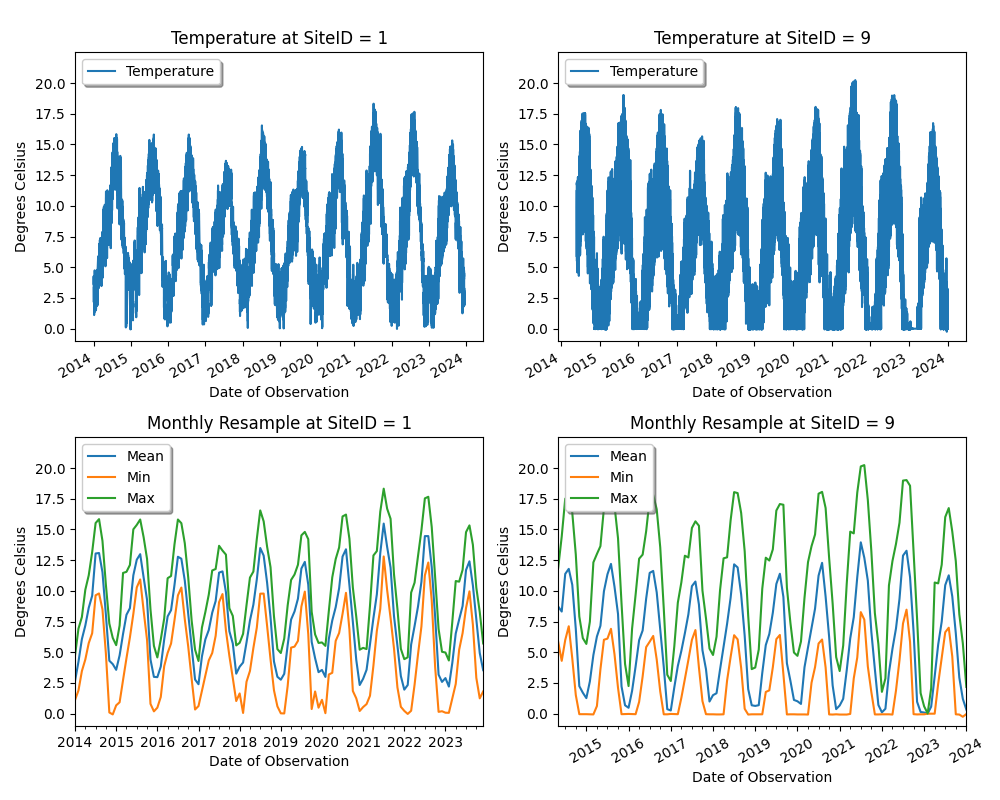
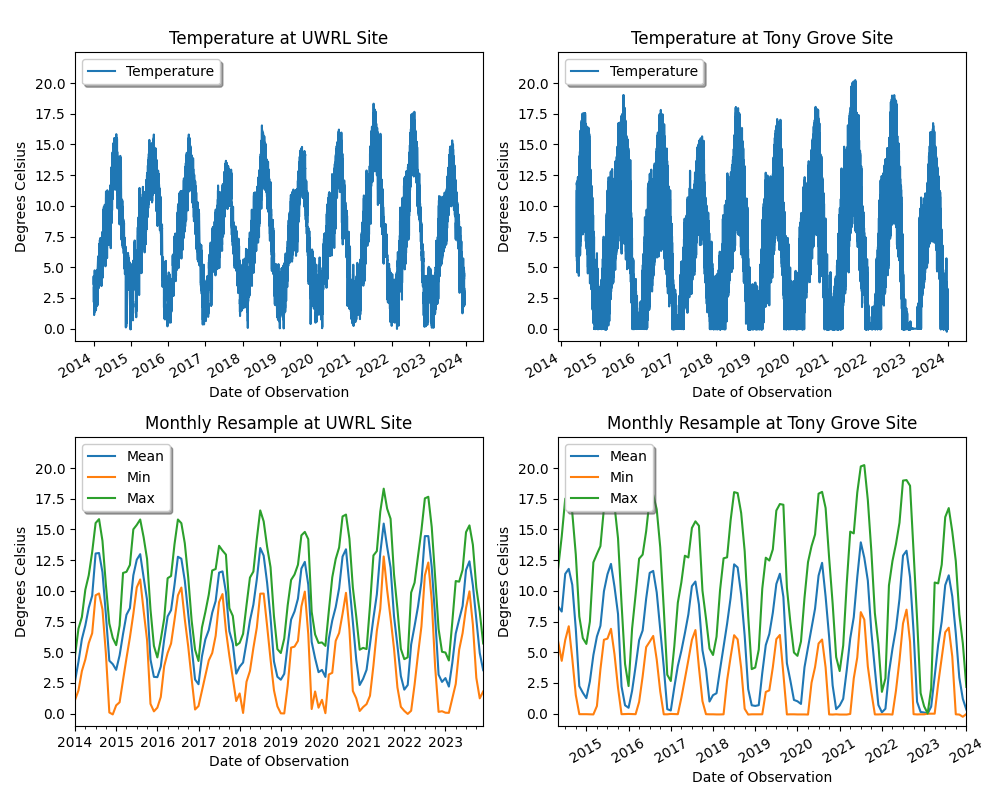
Updated python file and figure

diff --git a/HW5/main.py b/HW5/main.py
@@ -36,7 +36,7 @@ fig, axes = plt.subplots(nrows=2, ncols=2, figsize=(10, 8))
 # Plot temperature data for site 1 as is in top left
 df1['DataValue'].plot(ax=axes[0, 0], label='Temperature')
 legend = axes[0, 0].legend(loc='upper left', shadow=True)
-axes[0, 0].set_title('Temperature at SiteID = 1')
+axes[0, 0].set_title('Temperature at UWRL Site')
 axes[0, 0].set(ylim=(-1, 22.5), yticks=(np.arange(0, 22.5, 2.5)))
 axes[0, 0].set_xlabel('Date of Observation')
 axes[0, 0].set_ylabel('Degrees Celsius')
@@ -44,7 +44,7 @@ axes[0, 0].set_ylabel('Degrees Celsius')
 # Plot temperature data for site 9 as is in top right
 df2['DataValue'].plot(ax=axes[0, 1], label='Temperature')
 legend = axes[0, 1].legend(loc='upper left', shadow=True)
-axes[0, 1].set_title('Temperature at SiteID = 9')
+axes[0, 1].set_title('Temperature at Tony Grove Site')
 axes[0, 1].set(ylim=(-1, 22.5), yticks=(np.arange(0, 22.5, 2.5)))
 axes[0, 1].set_xlabel('Date of Observation')
 axes[0, 1].set_ylabel('Degrees Celsius')
@@ -53,7 +53,7 @@ axes[0, 1].set_ylabel('Degrees Celsius')
 df1['DataValue'].resample('MS').mean().plot(ax=axes[1, 0], label='Mean')
 df1['DataValue'].resample('MS').min().plot(ax=axes[1, 0], label='Min')
 df1['DataValue'].resample('MS').max().plot(ax=axes[1, 0], label='Max')
-axes[1, 0].set_title("Monthly Resample at SiteID = 1")
+axes[1, 0].set_title("Monthly Resample at UWRL Site")
 axes[1, 0].set(ylim=(-1, 22.5), yticks=(np.arange(0, 22.5, 2.5)))
 axes[1, 0].set_xlabel('Date of Observation')
 axes[1, 0].set_ylabel('Degrees Celsius')
@@ -64,7 +64,7 @@ plt.xticks(rotation=30)
 df2['DataValue'].resample('MS').mean().plot(ax=axes[1, 1], label='Mean')
 df2['DataValue'].resample('MS').min().plot(ax=axes[1, 1], label='Min')
 df2['DataValue'].resample('MS').max().plot(ax=axes[1, 1], label='Max')
-axes[1, 1].set_title("Monthly Resample at SiteID = 9")
+axes[1, 1].set_title("Monthly Resample at Tony Grove Site")
 axes[1, 1].set(ylim=(-1, 22.5), yticks=(np.arange(0, 22.5, 2.5)))
 axes[1, 1].set_xlabel('Date of Observation')
 axes[1, 1].set_ylabel('Degrees Celsius')
